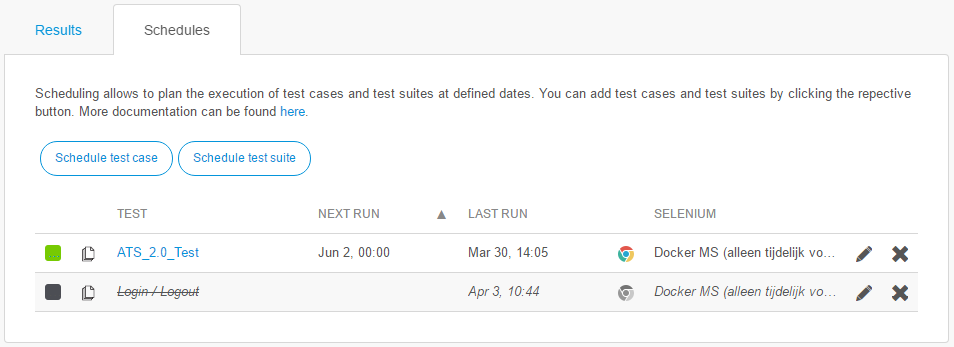
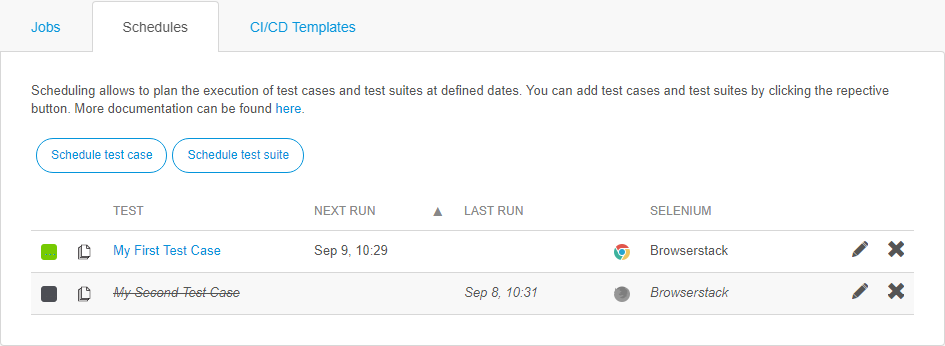
Updated schedules.md
Updated images
Removed action log depth and screenshots from settings table

Renamed operating system to platform

Rephrased some passages

diff --git a/ats-public-documentation/refguide-ats-2/schedule.md b/ats-public-documentation/refguide-ats-2/schedule.md
@@ -25,29 +25,26 @@ The following schedule settings are available:
 | Environment         | Set the environment on which the test should run |
 | Selenium Hub       | Set the Selenium hub on which the test is executed |
 | Browser            | Set the browser in which the test is run (Chrome or Firefox) |
-| Enable Screenshots | Enable screenshots during the test run   |
-| Action Log Depth   | Set depth of the error logging           |
 
-**Operating System**
-
-If you have selected a selenium hub from a supported selenium hub provider (TestingBot, SauceLabs or Browserstack), you will get access to the operating system selection. Here you can set the operating system, on which the test case will be run on.
-
+**Platform**
 <div class="alert alert-info">
 
 This option is only available for supported Selenium hubs.
 
 </div>
+
+If you have selected a selenium hub from a supported selenium hub provider (TestingBot, SauceLabs or Browserstack), you will get access to the platform settings. Here you can set the operating system, on which the test case will be run on.
 
 If you want to read more about the different supported operating system, read the [Supported selenium hub provider section](supported-selenium-hub-provider) of this documentation.
 
 **Resolution**
-
-This option is only available if you have selected a selenium hub from a supported selenium hub provider and a valid operating system. With this option, you can set the screen resolution of your test run. The available screen resolutions are the supported resolutions for the operating system given by the selenium hub provider.
-
 <div class="alert alert-info">
 
 This option is only available for supported Selenium hubs.
 
 </div>
 
-If you want to read more about the different supported screen resolutions, read the [Supported selenium hub provider section](supported-selenium-hub-provider) of this documentation.
+With this option, you can specify the screen resolution for your test run. A list of all supported screen resolutions can be found in the 
+[Supported selenium hub provider section](supported-selenium-hub-provider) of this documentation.
+
+
